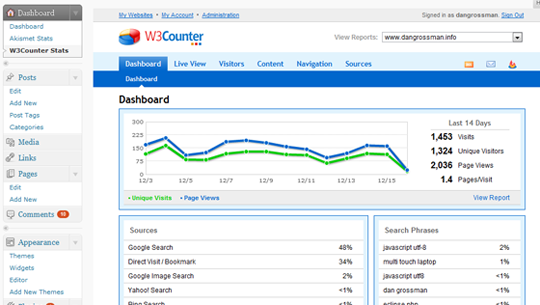
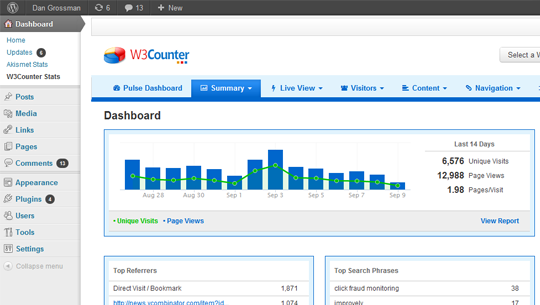
New version
git-svn-id: https://plugins.svn.wordpress.org/blog-stats-by-w3counter/trunk@596763 b8457f37-d9ea-0310-8a92-e5e31aec5664

diff --git a/w3counter.php b/w3counter.php
@@ -4,57 +4,63 @@
 
 Plugin Name:  Blog Stats by W3Counter
 Plugin URI:   http://www.w3counter.com/resources/wordpress-plugin
-Description:  Display stats for your blog on the dashboard and add the tracking code to your site with a widget
-Version:      2.1
-Author:       Dan Grossman
-Author URI:   http://www.dangrossman.info
+Description:  Adds real-time blog stats to your dashboard including visitor activity, top posts, top referrers, searches and locations of your visitors. To get started: 1) <a href="http://www.w3counter.com/signup">Sign up for a free W3Counter account</a>, 2) Go to your <a href="admin.php?page=w3counter-config">W3Counter settings</a> page to set your login details, and 3) Add the W3Counter Widget to one of your sidebars or manually copy and paste the code into your theme. <strong>Do you advertise your site online? Then check out our other service: <a href="http://www.improvely.com">Improvely</a></strong>
+Version:      2.5
+Author:       W3Counter
+Author URI:   http://www.w3counter.com
 
 **************************************************************************/
 
 function w3counter_init() {
-        add_action('admin_menu', 'w3counter_config_page');
-        add_action('admin_menu', 'w3counter_stats_page');
+    add_action('admin_menu', 'w3counter_config_page');
+    add_action('admin_menu', 'w3counter_stats_page');
 }
 add_action('init', 'w3counter_init');
 
+function w3counter_warning() {
+	echo "
+	<div id='w3counter-warning' class='updated fade'><p><strong>".__('W3Counter is almost ready.')."</strong> ".sprintf(__('You must <a href="%1$s">enter your W3Counter login details</a> for it to work.'), "admin.php?page=w3counter-config")."</p></div>
+	";
+}
+
 function w3counter_admin_init() {
-        if ( function_exists( 'get_plugin_page_hook' ) )
-                $hook = get_plugin_page_hook( 'w3counter-stats-display', 'index.php' );
-        else
-                $hook = 'dashboard_page_w3counter-stats-display';
-        add_action('admin_head-'.$hook, 'w3counter_stats_script');
+    if ( function_exists( 'get_plugin_page_hook' ) )
+        $hook = get_plugin_page_hook( 'w3counter-stats-display', 'index.php' );
+    else
+        $hook = 'dashboard_page_w3counter-stats-display';
+    add_action('admin_head-'.$hook, 'w3counter_stats_script');
+
+    $w3counter_user = get_option('w3counter_user');
+    if (empty($w3counter_user))
+    	add_action('admin_notices', 'w3counter_warning');
 }
 add_action('admin_init', 'w3counter_admin_init');
 
 function w3counter_config_page() {
-        if ( function_exists('add_submenu_page') )
-                add_submenu_page('options-general.php', __('W3Counter'), __('W3Counter'), 'manage_options', 'w3counter-config', 'w3counter_conf');
-
+    if ( function_exists('add_submenu_page') )
+        add_submenu_page('options-general.php', __('W3Counter'), __('W3Counter'), 'manage_options', 'w3counter-config', 'w3counter_conf');
 }
 
 function w3counter_stats_page() {
-        if ( function_exists('add_submenu_page') )
-                add_submenu_page('index.php', __('W3Counter Stats'), __('W3Counter Stats'), 'manage_options', 'w3counter-stats-display', 'w3counter_stats_display');
-
+    if ( function_exists('add_submenu_page') )
+        add_submenu_page('index.php', __('W3Counter Stats'), __('W3Counter Stats'), 'manage_options', 'w3counter-stats-display', 'w3counter_stats_display');
 }
 
-function w3counter_stats_script() {
-        ?>
+function w3counter_stats_script() { ?>
 	<script type="text/javascript">
-	function resizew3Iframe() {
-	    var height = document.documentElement.clientHeight;
-	    height -= document.getElementById('w3counter-stats-frame').offsetTop;
-	    height += 100; // magic padding
-	
-	    document.getElementById('w3counter-stats-frame').style.height = height +"px";
-	
-	};
-	function resizew3IframeInit() {
+		function resizew3Iframe() {
+		    var height = document.documentElement.clientHeight;
+		    height -= document.getElementById('w3counter-stats-frame').offsetTop;
+		    height += 100; // magic padding
+		    document.getElementById('w3counter-stats-frame').style.height = height +"px";
+		};
+		function resizew3IframeInit() {
 	        document.getElementById('w3counter-stats-frame').onload = resizew3Iframe;
 	        window.onresize = resizew3Iframe;
-	}
-	addLoadEvent(resizew3IframeInit);
-	</script><?php
+		}
+		addLoadEvent(resizew3IframeInit);
+	</script>
+	<?php
 }
 
 
@@ -64,75 +70,111 @@ function w3counter_stats_display() {
 	$w3counter_user = get_option('w3counter_user');
 	$w3counter_pass = get_option('w3counter_pass');
 
-	if (empty($w3counter_user)) {
+	if (!empty($w3counter_user)) {
 
-		echo "<div class='wrap'><p>You must configure the plugin first. Click W3Counter under the Settings menu.</p></div>";
-		
-	} else {
-
-		$url = 'http://www.w3counter.com/stats/' . $w3counter_id . '?wordpress=1&username=' . $w3counter_user . '&password=' . $w3counter_pass;
-	
-        	?>
-       		<div class="wrap">
-        	<iframe src="<?php echo $url; ?>" width="100%" height="100%" frameborder="0" id="w3counter-stats-frame"></iframe>
-        	</div>
-        	<?php
+		$url = 'https://www.w3counter.com/stats/' . $w3counter_id . '?wordpress=1&username=' . $w3counter_user . '&password=' . $w3counter_pass;
+    	?>
+   		<div class="wrap">
+    		<iframe src="<?php echo $url; ?>" width="100%" height="100%" frameborder="0" id="w3counter-stats-frame"></iframe>
+    	</div>
+    	<?php
 
 	}
 }
 
 function w3counter_conf() {
 
-	if (isset($_POST['w3counter_id'])) {
-		update_option('w3counter_id', $_POST['w3counter_id']);
+	if (!empty($_POST)) {
 		update_option('w3counter_user', $_POST['w3counter_user']);
-		update_option('w3counter_pass', $_POST['w3counter_pass']);
+		update_option('w3counter_pass', md5($_POST['w3counter_pass']));
+		if (isset($_POST['w3counter_id']))
+			update_option('w3counter_id', $_POST['w3counter_id']);
 	}
+
 	$w3counter_id = get_option('w3counter_id');
 	$w3counter_user = get_option('w3counter_user');
 	$w3counter_pass = get_option('w3counter_pass');
+	$w3counter_sites = get_option('w3counter_sites');
+
+	if (empty($w3counter_sites) && empty($w3counter_id) && !empty($w3counter_user)) {
+		$w3counter_sites = array();
+		$list = @file('http://www.w3counter.com/stats/wpinstall?username=' . urlencode($w3counter_user) . '&password=' . urlencode($w3counter_pass));
+		if (!empty($list)) {
+			foreach ($list as $line) {
+				$line = trim($line);
+				$parts = explode(',', $line);
+				$w3counter_sites[] = array('id' => $parts[0], 'url' => $parts[1]);
+			}
+			update_option('w3counter_sites', $w3counter_sites);
+			if (count($w3counter_sites) == 1) {
+				$w3counter_id = $w3counter_sites[0]['id'];
+				update_option('w3counter_id', $w3counter_id);
+			}
+		} else {
+			$manual = true;
+		}
+	}
+
 ?>
 
 <div class="wrap">
-        <div id="icon-options-general" class="icon32"><br /></div>
+    <div id="icon-options-general" class="icon32"><br /></div>
 
-        <h2>W3Counter Configuration</h2>
+    <h2>W3Counter Settings</h2>
 
-        <form method="post" action="">
+    <form method="post" action="admin.php?page=w3counter-config">
 
-		<?php if (isset($_POST['w3counter_id'])) echo 'Changes saved.<br />'; ?>
-	
-                <table class="form-table">
-                        <tr valign="top">
-				<th scope="row"><label>Your Website ID:</label></th>
-				<td>
-					<input type="text" name="w3counter_id" value="<?php echo $w3counter_id; ?>" />
-				</td>
-			</tr>
-			<tr>
-				<th></th>
-				<td>
-					Your website ID is the number you see in the address bar when viewing your web stats at <a href="http://www.w3counter.com/stats/" target="_blank">W3Counter.com</a>. 
-					The image below shows where you can find it. Enter the number for the website associated with this blog.<br /><br />
-					<img src="http://www.w3counter.com/stats/images/plugin.png" />
-				</td>
-			</tr>
-                        <tr valign="top">
-                                <th scope="row"><label>Your W3Counter Username:</label></th>
-                                <td>
-                                        <input type="text" name="w3counter_user" value="<?php echo $w3counter_user; ?>" />
-                                </td>
-                        </tr>
-			<tr>
-				<th scope="row"><label>Your W3Counter Password:</label></th>
-				<td>
-					<input type="password" name="w3counter_pass" value="<?php echo $w3counter_pass; ?>" />
-                                </td>
-                        </tr>
-		</table>
+	<?php if (!empty($_POST)): ?>
+		<div id="message" class="updated fade"><p><strong><?php _e('Your settings have been saved. Add the W3Counter Widget to one of your sidebars from the <b>Appearance</b> menu, then view your blog\'s stats from your <b>Dashboard</b> menu.') ?></strong></p></div>
+	<?php endif; ?>
 
-		<br /><br />
-		<input type="submit" value="Save Changes" class="button" />
+	<?php if (isset($manual)): ?>
+		<div id="message" class="updated fade"><p><strong>Error:</strong> We couldn't retrieve the websites from 
+			your account. You may have entered your username or password incorrectly, or your web host blocked the 
+			connection to W3Counter. You can finish setting up the plugin manually by entering your password again 
+			and the ID of your website below. The ID is the number you see in your browser address bar when viewing 
+			your stats on the W3Counter website (ex: http://www.w3counter.com/stats/123 <-- 123).
+		</p></div>
+	<?php endif; ?>
+
+    <table class="form-table">
+        <tr valign="top">
+            <th scope="row"><label>Your W3Counter Username:</label></th>
+            <td>
+                <input type="text" name="w3counter_user" value="<?php echo $w3counter_user; ?>" />
+            </td>
+        </tr>
+		<tr>
+			<th scope="row"><label>Your W3Counter Password:</label></th>
+			<td>
+				<input type="password" name="w3counter_pass" value="" />
+            </td>
+	    </tr>
+	    <?php if (!empty($w3counter_sites)): ?>
+	    <tr>
+	    	<th scope="row"><label>Your Website:</label></th>
+	    	<td>
+	    		<select name="w3counter_id">
+	    		<?php foreach ($w3counter_sites as $site): ?>
+	    			<option value="<?php echo $site['id']; ?>"<?php if (!empty($w3counter_id) && $w3counter_id == $site['id']) echo ' selected="selected"'; ?>><?php echo str_replace('http://', '', $site['url']); ?></option>
+	    		<?php endforeach; ?>
+    			</select>
+			</td>
+		</tr>
+		<?php endif; ?>
+		<?php if (isset($manual)): ?>
+		<tr>
+			<th scope="row"><label>Website ID:</label></th>
+			<td>
+				<input type="text" name="w3counter_id" value="" />
+            </td>
+	    </tr>
+		<?php endif; ?>
+	</table>
+
+	<br /><br />
+
+	<input type="submit" value="Save Changes" class="button" />
 
 	</form>
 </div>
@@ -140,27 +182,28 @@ function w3counter_conf() {
 <?php 
 }
 
+// Tracker Widget
+
 class WP_Widget_W3Counter extends WP_Widget {
 
-        function WP_Widget_W3Counter() {
-		$widget_ops = array('classname' => 'WP_Widget_W3Counter', 'description' => __( 'Adds the W3Counter tracking code to your sidebar') );
-                $this->WP_Widget('w3counter', __('W3Counter'), $widget_ops);
-        }
+	function WP_Widget_W3Counter() {
+		$widget_ops = array('classname' => 'WP_Widget_W3Counter', 'description' => __( 'Adds the W3Counter tracking code to your theme, which will display the badge/counter style you chose when you signed up') );
+	    $this->WP_Widget('w3counter', __('W3Counter Widget (Badge/Counter)'), $widget_ops);
+	}
 
-        function widget( $args, $instance ) {
-                extract($args);
-		
+	function widget( $args, $instance ) {
+	    extract($args);
+
 		$w3counter_id = get_option('w3counter_id');
-
-                echo $before_widget;
-                echo '<div id="w3counter_wrap">';
+	    echo $before_widget;
+	    echo '<div id="w3counter_wrap">';
 ?>
 <!-- Begin W3Counter Tracking Code -->
 <script type="text/javascript" src="http://www.w3counter.com/tracker.js"></script>
 <script type="text/javascript">
 <?php
 if (!empty($_COOKIE['comment_author_' . COOKIEHASH])) {
-        echo "_w3counter_label = '" . $_COOKIE['comment_author_' . COOKIEHASH] . "';\n";
+    echo "_w3counter_label = '" . $_COOKIE['comment_author_' . COOKIEHASH] . "';\n";
 }
 ?>
 w3counter(<?php echo $w3counter_id; ?>);
@@ -170,22 +213,22 @@ w3counter(<?php echo $w3counter_id; ?>);
 </noscript>
 <!-- End W3Counter Tracking Code-->
 <?php
-                echo '</div>';
-                echo $after_widget;
-        }
+        echo '</div>';
+        echo $after_widget;
+    }
 
-        function update( $new_instance, $old_instance ) {
-                $instance = $old_instance;
-                return $instance;
-        }
+    function update( $new_instance, $old_instance ) {
+        $instance = $old_instance;
+        return $instance;
+    }
 
-        function form( $instance ) {
-	}
+    function form( $instance ) { }
+
 }
 
-add_action('widgets_init', 'w3counter_widget_init');
 function w3counter_widget_init() {
 	register_widget('WP_Widget_W3Counter');
 }
+add_action('widgets_init', 'w3counter_widget_init');
 
 ?>
